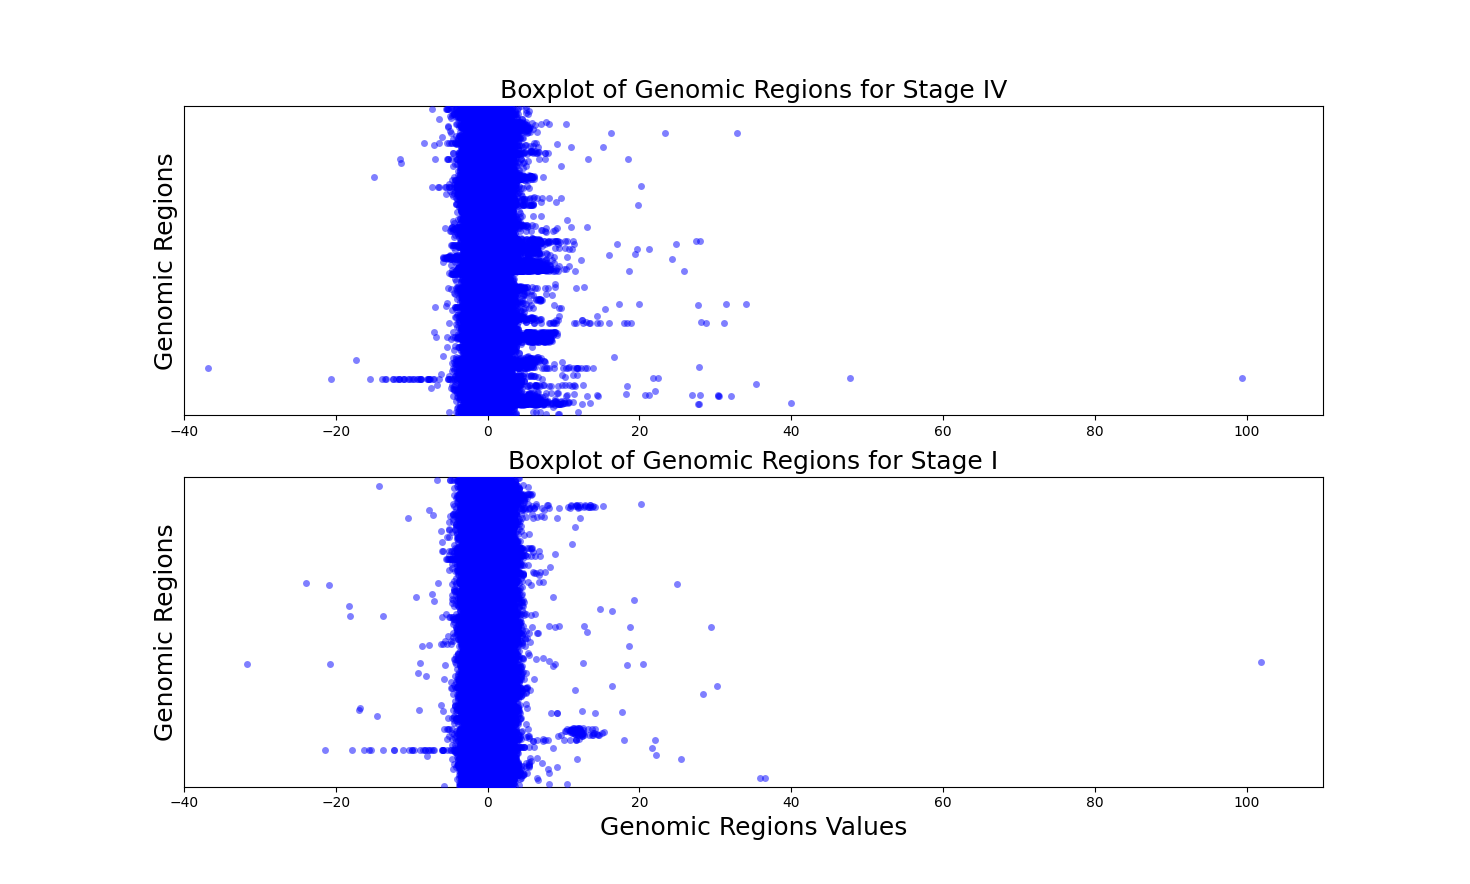
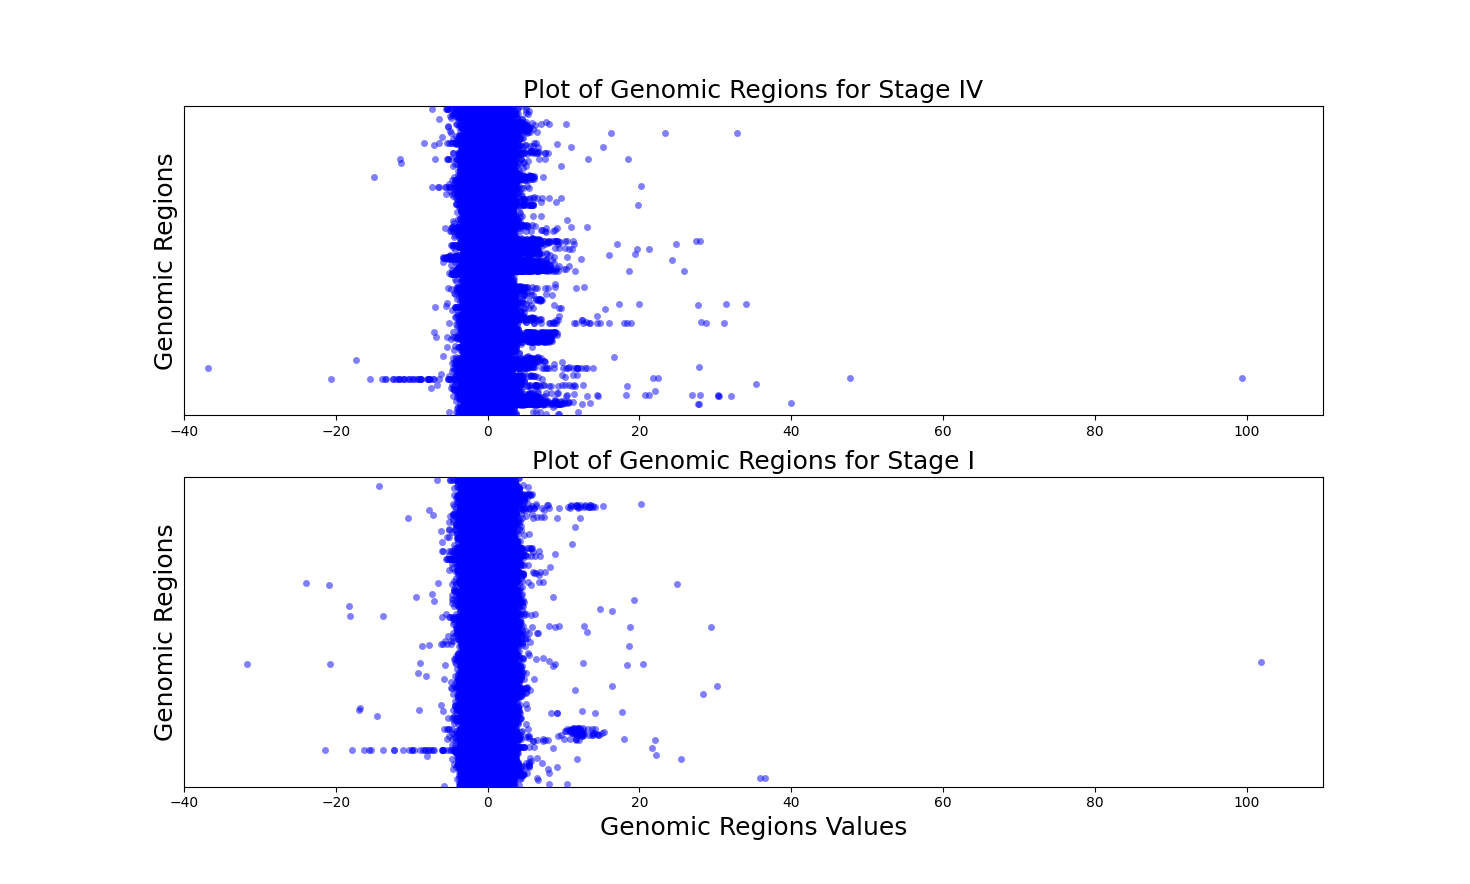
plot

Changed region(s): [[0.3367, 0.4887, 0.6735, 0.5498], [0.3367, 0.0916, 0.6735, 0.1222]]

diff --git a/BDD_cancer/Boxplot.py b/BDD_cancer/Boxplot.py
@@ -67,24 +67,24 @@ melted_data = pd.melt(combined_data.reset_index(), id_vars=['Sample', 'Type'],
                       var_name='Genomic Region', value_name='Value')
 
 # Plot using hue to differentiate between cancer and normal samples
-# plt.figure(1, figsize=(15, 9))
+plt.figure(1, figsize=(15, 9))
 
-# sns.stripplot(data=melted_data[melted_data['Type'] == 'Cancer'], x='Value', y='Genomic Region', 
-#               jitter=True, size=5, marker="o", alpha=0.5, color="blue")
+sns.stripplot(data=melted_data[melted_data['Type'] == 'Cancer'], x='Value', y='Genomic Region', 
+              jitter=True, size=5, marker="o", alpha=0.5, color="blue")
 
-# sns.stripplot(data=melted_data[melted_data['Type'] == 'Normal'], x='Value', y='Genomic Region', 
-#               jitter=True, size=5, marker="o", alpha=0.8, color="red")
+sns.stripplot(data=melted_data[melted_data['Type'] == 'Normal'], x='Value', y='Genomic Region', 
+              jitter=True, size=5, marker="o", alpha=0.8, color="red")
 
-# blue_dot = plt.Line2D([0], [0], marker='o', color='w', markerfacecolor='blue', markersize=6, label='Cancer', alpha=0.5)
-# red_dot = plt.Line2D([0], [0], marker='o', color='w', markerfacecolor='red', markersize=6, label='Normal', alpha=0.8)
+blue_dot = plt.Line2D([0], [0], marker='o', color='w', markerfacecolor='blue', markersize=6, label='Cancer', alpha=0.5)
+red_dot = plt.Line2D([0], [0], marker='o', color='w', markerfacecolor='red', markersize=6, label='Normal', alpha=0.8)
 
-# plt.legend(handles=[blue_dot, red_dot], title='Sample Type', loc='upper right')
+plt.legend(handles=[blue_dot, red_dot], title='Sample Type', loc='upper right')
 
-# plt.yticks([])
-# plt.title('Genomic Regions Data Distribution', fontsize=18)
-# plt.xlabel('Genomic Regions Values', fontsize=18)
-# plt.ylabel('Genomic Regions', fontsize=18)
-# plt.show()
+plt.yticks([])
+plt.title('Genomic Regions Data Distribution', fontsize=18)
+plt.xlabel('Genomic Regions Values', fontsize=18)
+plt.ylabel('Genomic Regions', fontsize=18)
+plt.show()
 
 ## Plot for Stage IV and Stage I
 
@@ -102,7 +102,7 @@ plt.subplot(2, 1, 1)
 plt.xlim(-40, 110)
 sns.stripplot(data=stage_iv_numeric, orient='h', color="blue", jitter=True, size=5, marker="o", alpha=0.5)
 plt.yticks([])
-plt.title('Boxplot of Genomic Regions for Stage IV', fontsize=18)
+plt.title('Plot of Genomic Regions for Stage IV', fontsize=18)
 # plt.xlabel('Genomic Regions Values', fontsize=18)
 plt.ylabel('Genomic Regions', fontsize=18)
 # plt.show()
@@ -112,7 +112,7 @@ plt.subplot(2, 1, 2)
 plt.xlim(-40, 110)
 sns.stripplot(data=stage_i_numeric, orient='h', color="blue", jitter=True, size=5, marker="o", alpha=0.5)
 plt.yticks([])
-plt.title('Boxplot of Genomic Regions for Stage I', fontsize=18)
+plt.title('Plot of Genomic Regions for Stage I', fontsize=18)
 plt.xlabel('Genomic Regions Values', fontsize=18)
 plt.ylabel('Genomic Regions', fontsize=18)
 plt.show()
